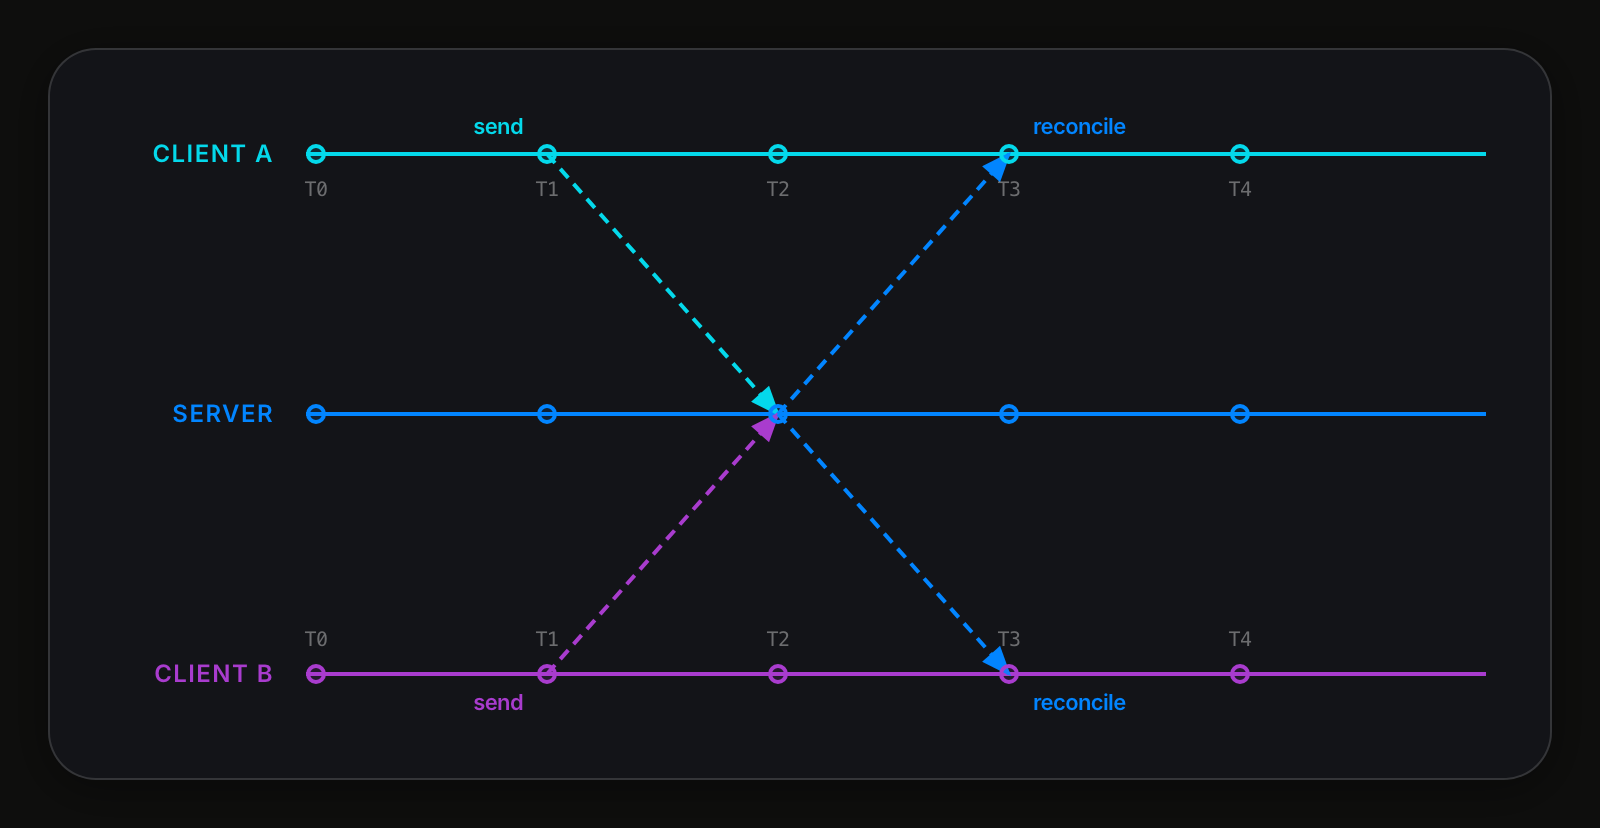
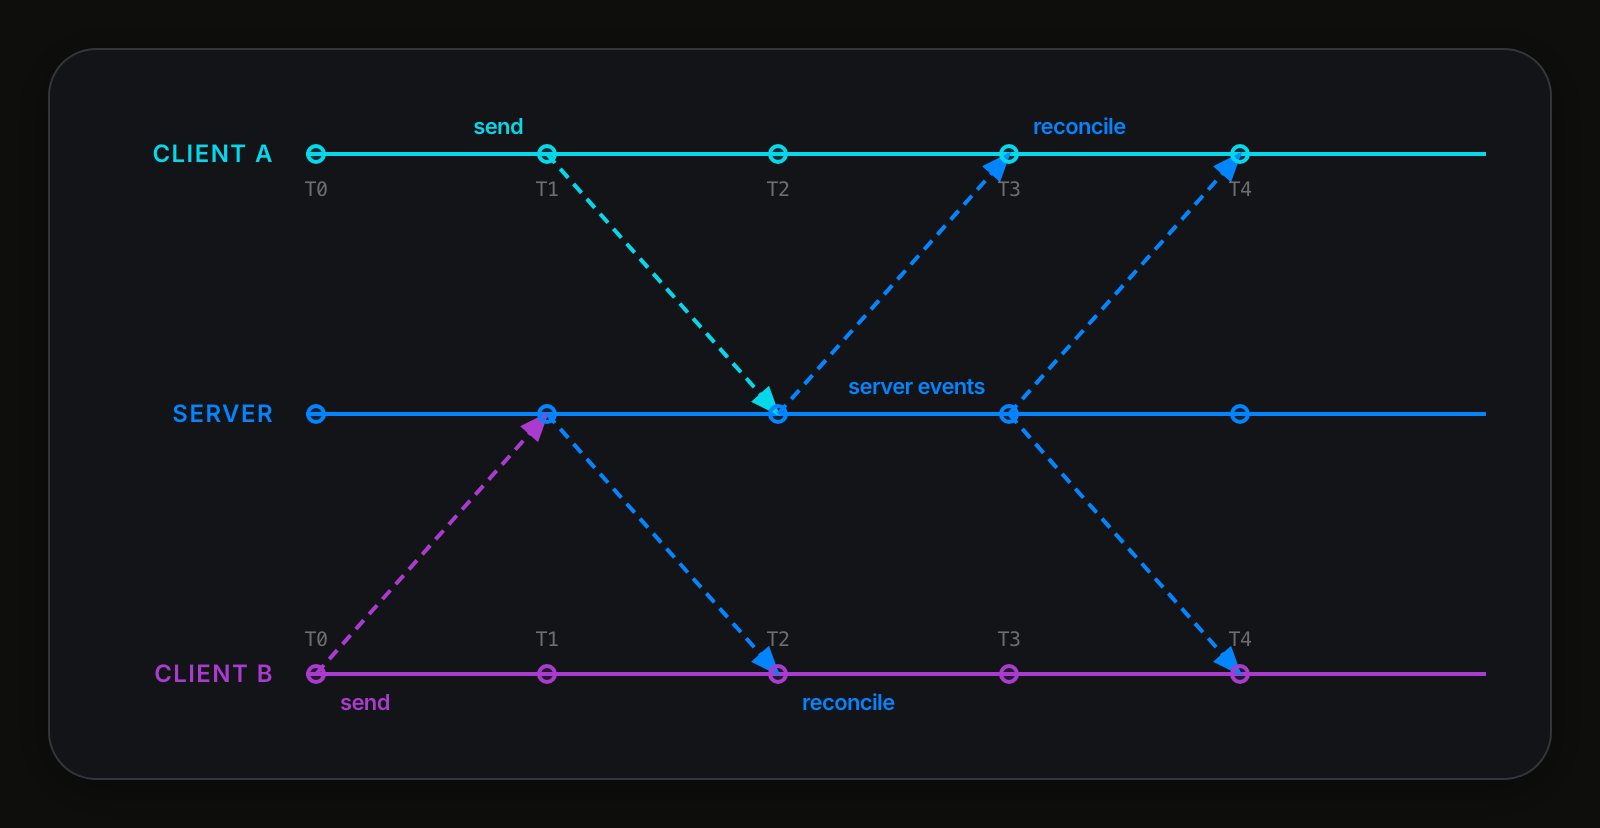
rebuild: games slide staggers B's round trip, adds server events

diff --git a/diagrams/pages/game-timelines.html b/diagrams/pages/game-timelines.html
@@ -252,22 +252,26 @@
         svg.appendChild(el);
       }
 
-      const a1 = dotCenter(aDots[1]), a3 = dotCenter(aDots[3]);
-      const b1 = dotCenter(bDots[1]), b3 = dotCenter(bDots[3]);
-      const s2 = dotCenter(sDots[2]);
+      const a1 = dotCenter(aDots[1]), a3 = dotCenter(aDots[3]), a4 = dotCenter(aDots[4]);
+      const b0 = dotCenter(bDots[0]), b2 = dotCenter(bDots[2]), b4 = dotCenter(bDots[4]);
+      const s1 = dotCenter(sDots[1]), s2 = dotCenter(sDots[2]), s3 = dotCenter(sDots[3]);
 
-      // input: each client up/down to the server
+      // input: each client to the server, on its own schedule
+      line(b0, s1, PURPLE, 'arrow-purple');
       line(a1, s2, CYAN, 'arrow-cyan');
-      line(b1, s2, PURPLE, 'arrow-purple');
-      // authoritative update: the server back out to each client
+      // authoritative update: the server back to the client that sent it
+      line(s1, b2, BLUE, 'arrow-blue');
       line(s2, a3, BLUE, 'arrow-blue');
-      line(s2, b3, BLUE, 'arrow-blue');
+      // events the server originates itself, pushed to everyone
+      line(s3, a4, BLUE, 'arrow-blue');
+      line(s3, b4, BLUE, 'arrow-blue');
 
       // A's labels sit above its line, B's below its line — clear of the T-labels either way
       label('send', a1.x - 12, a1.y - 10, CYAN, 'end');
       label('reconcile', a3.x + 12, a3.y - 10, BLUE, 'start');
-      label('send', b1.x - 12, b1.y + 18, PURPLE, 'end');
-      label('reconcile', b3.x + 12, b3.y + 18, BLUE, 'start');
+      label('send', b0.x + 12, b0.y + 18, PURPLE, 'start');
+      label('reconcile', b2.x + 12, b2.y + 18, BLUE, 'start');
+      label('server events', s3.x - 12, s3.y - 10, BLUE, 'end');
     }
 
     window.addEventListener('load', drawArrows);
